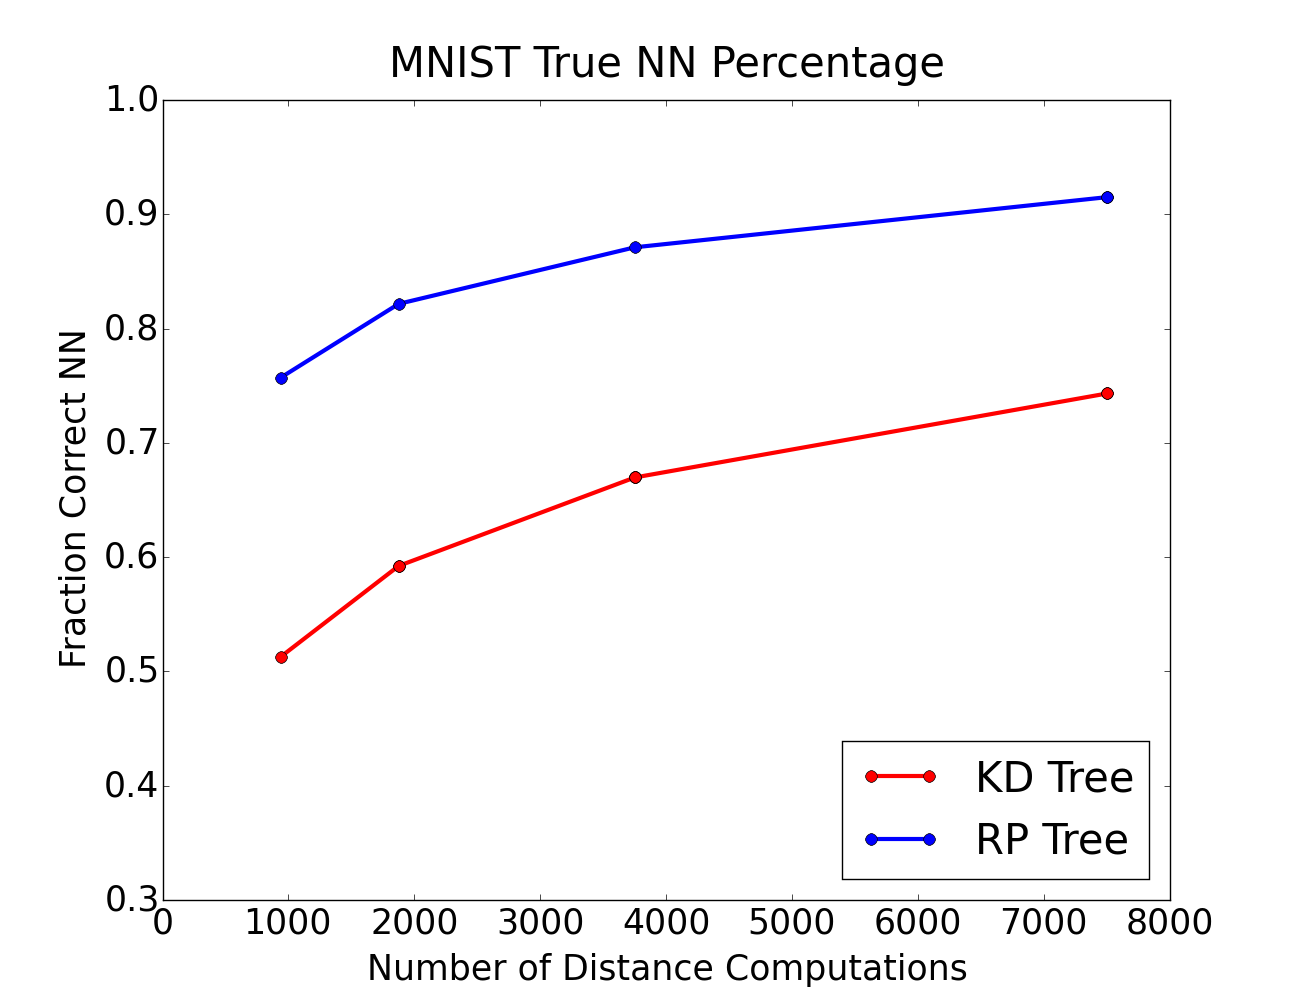
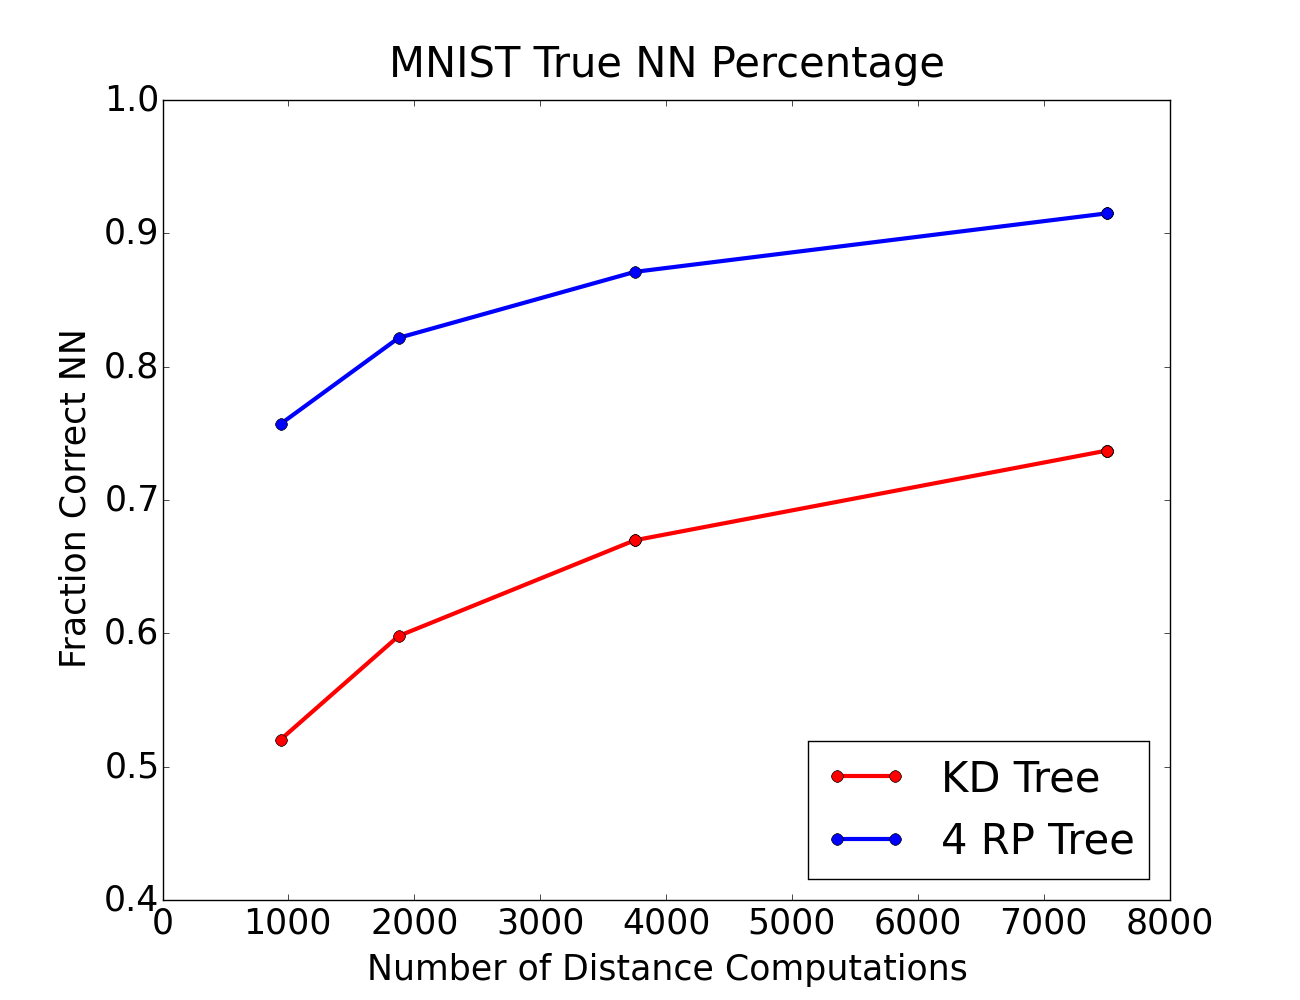
updated multi tree

diff --git a/src/src/multi_kd_tree.h b/src/src/multi_kd_tree.h
@@ -32,23 +32,23 @@ template<class Label, class T>
 class MultiKDTree : public KDTree<Label, T>
 {
 private:
-    static KDTreeNode<Label, T> * build_tree(size_t c,
+    static KDTreeNode<Label, T> * build_tree(size_t min_leaf_size,
                                              DataSet<Label, T> & st, vector<size_t> domain);
     MultiKDTree(DataSet<Label, T> & st);
 public:
-    MultiKDTree(size_t c, DataSet<Label, T> & st);
+    MultiKDTree(size_t min_leaf_size, DataSet<Label, T> & st);
     MultiKDTree(ifstream & in, DataSet<Label, T> & st);
 };
 
 /* Private Functions */
 
 template<class Label, class T>
-KDTreeNode<Label, T> * MultiKDTree<Label, T>::build_tree(size_t c,
+KDTreeNode<Label, T> * MultiKDTree<Label, T>::build_tree(size_t min_leaf_size,
                                                     DataSet<Label, T> & st, vector<size_t> domain)
 {
     LOG_INFO("Enter build_tree\n");
-    LOG_FINE("with c = %ld and domain.size = %ld\n", c, domain.size());
-    if (domain.size() < c) {
+    LOG_FINE("with min_leaf_size = %ld and domain.size = %ld\n", min_leaf_size, domain.size());
+    if (domain.size() < min_leaf_size) {
         LOG_INFO("Exit build_tree");
         LOG_FINE("by hitting base size");
         return new KDTreeNode<Label, T>(domain);
@@ -66,10 +66,10 @@ KDTreeNode<Label, T> * MultiKDTree<Label, T>::build_tree(size_t c,
     vector<size_t> subdomain_r;
     vector<size_t> pivot_pool;
     for (size_t i = 0; i < domain.size(); i++) {
-        if (pivot == values[i]) {
+        if (values[i] == pivot) {
             pivot_pool.push_back(domain[i]);
         } else {
-            if (values[i] <= pivot)
+            if (values[i] < pivot)
                 subdomain_l.push_back(domain[i]);
             else
                 subdomain_r.push_back(domain[i]);
@@ -80,9 +80,6 @@ KDTreeNode<Label, T> * MultiKDTree<Label, T>::build_tree(size_t c,
     //dot a random vector then do split again
     size_t dimension = (*subst[0]).size();
     vector<double> tie_breaker = random_tie_breaker(dimension);
-    
-    //store new pivots in update_pool
-    double tie_pivot;
     
     //extract the vectors from dataset
     DataSet<Label, T> tie_vectors = st.subset(pivot_pool);
@@ -96,6 +93,11 @@ KDTreeNode<Label, T> * MultiKDTree<Label, T>::build_tree(size_t c,
     
     //find the tie_pivots and distribute tie vectors
     size_t k = subdomain_l_lim - subdomain_l.size();
+    
+    
+    //store new pivots in update_pool
+    double tie_pivot;
+    
     tie_pivot = selector(update_pool, k);
     for (int j = 0; j < update_pool.size(); j++) {
         if (update_pool[j] <= tie_pivot)
@@ -106,8 +108,8 @@ KDTreeNode<Label, T> * MultiKDTree<Label, T>::build_tree(size_t c,
     
     
     KDTreeNode<Label, T> * result = new KDTreeNode<Label, T> (mx_var_index, pivot, domain, dimension, tie_pivot, tie_breaker);
-    result->set_left(build_tree(c, st, subdomain_l));
-    result->set_right(build_tree(c, st, subdomain_r));
+    result->set_left(build_tree(min_leaf_size, st, subdomain_l));
+    result->set_right(build_tree(min_leaf_size, st, subdomain_r));
     LOG_FINE("> sdl = %ld\n", subdomain_l.size());
     LOG_FINE("> sdr = %ld\n", subdomain_r.size());
     LOG_INFO("Exit build_tree\n");
@@ -125,12 +127,12 @@ MultiKDTree<Label, T>::MultiKDTree(DataSet<Label, T> & st) :
 /* Public Functions */
 
 template<class Label, class T>
-MultiKDTree<Label, T>::MultiKDTree(size_t c, DataSet<Label, T> & st) :
+MultiKDTree<Label, T>::MultiKDTree(size_t min_leaf_size, DataSet<Label, T> & st) :
     KDTree<Label, T>(st)
 {
     LOG_INFO("MultiKDTree Constructed\n");
-    LOG_FINE("with c = %ld", c);
-    this->set_root(build_tree(c, st, st.get_domain()));
+    LOG_FINE("with c = %ld", min_leaf_size);
+    this->set_root(build_tree(min_leaf_size, st, st.get_domain()));
 }
 
 template<class Label, class T>

diff --git a/data/mnist/pyplot.py b/data/mnist/pyplot.py
@@ -117,16 +117,29 @@ def ran_spill_vspill():
 	figure.set_size_inches(13, 10)
 	plt.savefig("mnist_multi_spill_vspill.png")
 
-def ran_kd():
-	plt.axis([0,8000,0.3,1])
+def ran4_kd():
+	plt.axis([0,8000,0.4,1])
 	kd_x, kd_y = read_partial_file(3,2,1,10,1,'kd_tree.dat')
 	ran_x, ran_y = read_partial_file(3,2,0,5,1,'4multi_kd_tree.dat')
 	kd_line, = plt.plot(kd_x, kd_y, 'ro-', label='KD Tree', lw=3, ms=8)
-	ran_line, = plt.plot(ran_x, ran_y, 'bo-', label='RP Tree', lw=3, ms=8)
+	ran_line, = plt.plot(ran_x, ran_y, 'bo-', label='4 RP Tree', lw=3, ms=8)
 	plt.legend(handles=[kd_line,ran_line],loc=4)
 	figure = plt.gcf()
 	figure.set_size_inches(13, 10)
-	plt.savefig("ran4_kd.png")
+	plt.savefig("mnist_ran4_kd.png")
+
+def ran8_kd():
+	plt.axis([0,8000,0.4,1])
+	kd_x, kd_y = read_partial_file(3,2,1,10,1,'kd_tree.dat')
+	ran_x, ran_y = read_partial_file(3,2,0,5,1,'4multi_kd_tree.dat')
+	ran8_x, ran8_y = read_partial_file(3,2,0,5,1,'8multi_kd_tree.dat')
+	kd_line, = plt.plot(kd_x, kd_y, 'ro-', label='KD Tree', lw=3, ms=8)
+	ran_line, = plt.plot(ran_x, ran_y, 'bo-', label='4 RP Tree', lw=3, ms=8)
+	ran8_line, = plt.plot(ran8_x, ran8_y, 'mo-', label='8 RP Tree', lw=3, ms=8)
+	plt.legend(handles=[kd_line,ran_line, ran8_line],loc=4)
+	figure = plt.gcf()
+	figure.set_size_inches(13, 10)
+	plt.savefig("mnist_ran8_kd.png")
 
 def main():
 	font = {'size' : 25}
@@ -138,7 +151,7 @@ def main():
 	plt.xlabel('Number of Distance Computations', labelpad = 10)
 	plt.ylabel('Fraction Correct NN', labelpad = 10)
 
-	ran_kd()
+	kd_tie()
 
 main()
 

diff --git a/data/personality/pyplot.py b/data/personality/pyplot.py
@@ -114,16 +114,30 @@ def ran_spill_vspill():
 	figure.set_size_inches(13, 10)
 	plt.savefig("person_multi_spill_vspill.png")
 
-def ran_kd():
+def ran4_kd():
 	plt.axis([0,6000,0,0.4])
 	kd_x, kd_y = read_file(3,2,'kd_tree.dat')
 	ran_x, ran_y = read_partial_file(3,2,0,3,1,'4multi_kd_tree.dat')
 	kd_line, = plt.plot(kd_x, kd_y, 'ro-', label='KD Tree', lw=3, ms=8)
-	ran_line, = plt.plot(ran_x, ran_y, 'bo-', label='RP Tree', lw=3, ms=8)
+	ran_line, = plt.plot(ran_x, ran_y, 'bo-', label='4 RP Tree', lw=3, ms=8)
 	plt.legend(handles=[kd_line,ran_line],loc=4)
 	figure = plt.gcf()
 	figure.set_size_inches(13, 10)
 	plt.savefig("person_ran4_kd.png")
+
+def ran8_kd():
+	plt.axis([0,6000,0,0.4])
+	kd_x, kd_y = read_partial_file(3,2,1,10,1,'kd_tree.dat')
+	ran_x, ran_y = read_partial_file(3,2,0,3,1,'4multi_kd_tree.dat')
+	ran8_x, ran8_y = read_partial_file(3,2,0,5,1,'8multi_kd_tree.dat')
+	kd_line, = plt.plot(kd_x, kd_y, 'ro-', label='KD Tree', lw=3, ms=8)
+	ran_line, = plt.plot(ran_x, ran_y, 'bo-', label='4 RP Tree', lw=3, ms=8)
+	ran8_line, = plt.plot(ran8_x, ran8_y, 'mo-', label='8 RP Tree', lw=3, ms=8)
+	plt.legend(handles=[kd_line,ran_line, ran8_line],loc=4)
+	figure = plt.gcf()
+	figure.set_size_inches(13, 10)
+	plt.savefig("person_ran8_kd.png")
+
 
 def main():
 	font = {'size' : 25}
@@ -132,7 +146,7 @@ def main():
 	plt.xlabel('Number of Distance Computations', labelpad = 10)
 	plt.ylabel('Fraction Correct NN', labelpad = 10)
 
-	ran_kd()
+	ran8_kd()
 
 main()
 

diff --git a/src/src/test.h b/src/src/test.h
@@ -32,7 +32,7 @@ using namespace std;
 
 static double multiple_tree     = 2;
 static double min_leaf  = 0.005; //0.0001;
-static double leaf_size_array []      = {0.007, 0.015, 0.03, 0.045, 0.05, 0.06, 0.07, 0.08, 0.09, 0.1};//{0.015, 0.03, 0.06, 0.09, 0.1, 0.13, 0.15, 0.17, 0.19, 0.21};
+static double leaf_size_array []      = {0.015, 0.03, 0.06, 0.09, 0.1, 0.13, 0.15, 0.17, 0.19, 0.21};
 const size_t leaf_size_array_len      = 10;
 static double a_array []      = {0.05, 0.1};
 const size_t a_array_len      = 2;
@@ -84,7 +84,7 @@ public:
     
     void s_multi_kd_tree(double min_leaf_size, int n) {
         stringstream dir;
-        for (int i=5; i<=n; i++) {
+        for (int i=1; i<=n; i++) {
             dir << base_dir_ << "/multi_kd_tree" << i << "_" << setprecision(2) << min_leaf_size;
             MultiKDTree<Label, T> tree ((size_t)(min_leaf_size * (*trn_st_).size()), *trn_st_);
             ofstream tree_out (dir.str());
@@ -318,7 +318,7 @@ public:
     
     void generate_multi_kd_tree_data(string out_dir)
     {
-        ofstream dat_out (out_dir + "/4multi_kd_tree.dat");
+        ofstream dat_out (out_dir + "/" + to_string(int(multiple_tree)) + "multi_kd_tree.dat");
         dat_out <<  setw(COL_W) << "leaf";
         dat_out <<  setw(COL_W) << "error rate";
         dat_out <<  setw(COL_W) << "true nn";

diff --git a/data/cifar/pyplot.py b/data/cifar/pyplot.py
@@ -123,11 +123,24 @@ def ran_kd():
 	kd_x, kd_y = read_file(3,2,'kd_tree.dat')
 	ran_x, ran_y = read_partial_file(3,2,0,3,1,'4multi_kd_tree.dat')
 	kd_line, = plt.plot(kd_x, kd_y, 'ro-', label='KD Tree', lw=3, ms=8)
-	ran_line, = plt.plot(ran_x, ran_y, 'bo-', label='RP Tree', lw=3, ms=8)
+	ran_line, = plt.plot(ran_x, ran_y, 'bo-', label='4 RP Trees', lw=3, ms=8)
 	plt.legend(handles=[kd_line,ran_line],loc=4)
 	figure = plt.gcf()
 	figure.set_size_inches(13, 10)
 	plt.savefig("cifar_ran4_kd.png")
+
+def ran8_kd():
+	plt.axis([0,7000,0.2, 0.9])
+	kd_x, kd_y = read_partial_file(3,2,1,10,1,'kd_tree.dat')
+	ran_x, ran_y = read_partial_file(3,2,0,3,1,'4multi_kd_tree.dat')
+	ran8_x, ran8_y = read_partial_file(3,2,0,5,1,'8multi_kd_tree.dat')
+	kd_line, = plt.plot(kd_x, kd_y, 'ro-', label='KD Tree', lw=3, ms=8)
+	ran_line, = plt.plot(ran_x, ran_y, 'bo-', label='4 RP Tree', lw=3, ms=8)
+	ran8_line, = plt.plot(ran8_x, ran8_y, 'mo-', label='8 RP Tree', lw=3, ms=8)
+	plt.legend(handles=[kd_line,ran_line, ran8_line],loc=4)
+	figure = plt.gcf()
+	figure.set_size_inches(13, 10)
+	plt.savefig("cifar_ran8_kd.png")
 
 def main():
 	font = {'size' : 25}
@@ -136,7 +149,7 @@ def main():
 	plt.xlabel('Number of Distance Computations', labelpad = 10)
 	plt.ylabel('Fraction Correct NN', labelpad = 10)
 
-	ran_kd()
+	ran8_kd()
 
 main()
 
